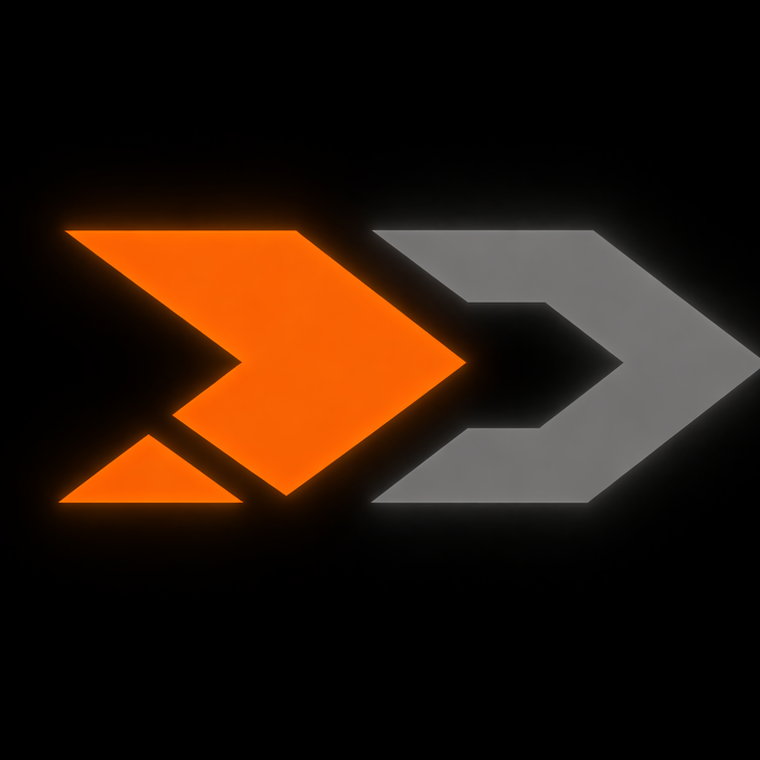
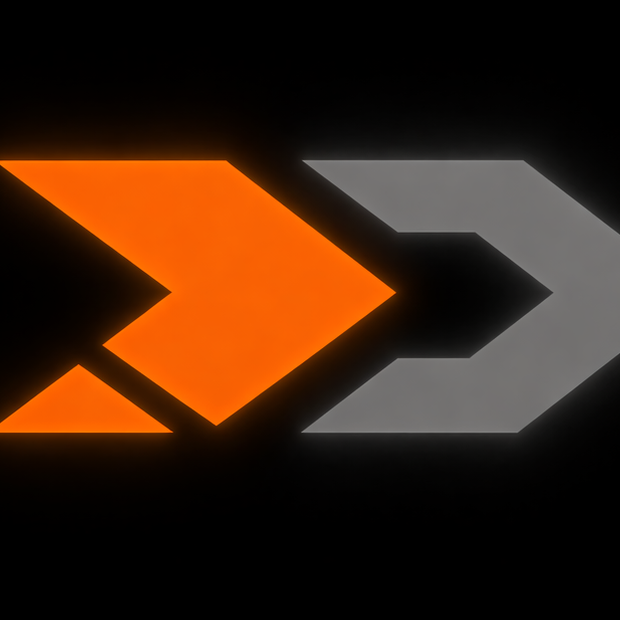
Increase RunDash chevron size again

Changed region(s): [[0.0, 0.2145, 1.0, 0.7355]]

diff --git a/components/Nav.tsx b/components/Nav.tsx
@@ -55,7 +55,7 @@ export default function Nav() {
       {/* ── Desktop top nav ───────────────────────────────────── */}
       <nav className="fixed top-0 left-0 right-0 z-50 hidden sm:block" style={{ background: 'rgba(8,8,8,0.85)', backdropFilter: 'blur(16px) saturate(180%)', WebkitBackdropFilter: 'blur(16px) saturate(180%)', borderBottom: '1px solid rgba(255,255,255,0.05)' }}>
         <div className="max-w-6xl mx-auto px-6 flex items-center justify-between h-14">
-          <RunDashWordmark imageClassName="h-6 w-6" textClassName="text-xl" />
+          <RunDashWordmark imageClassName="h-7 w-7" textClassName="text-xl" />
           <div className="flex items-center gap-1">
             {navItems.map(({ href, label, icon: Icon }) => {
               const active = path === href || (href !== '/' && path.startsWith(href)) || (href === '/groups' && path.startsWith('/group/'))
@@ -108,7 +108,7 @@ export default function Nav() {
 
       {/* ── Mobile top bar: logo + actions ───────────────────── */}
       <div className="mobile-top-bar sm:hidden fixed top-0 left-0 right-0 z-50 h-12 flex items-center justify-between px-4" style={{ background: 'rgba(8,8,8,0.9)', backdropFilter: 'blur(16px)', WebkitBackdropFilter: 'blur(16px)', borderBottom: '1px solid rgba(255,255,255,0.05)' }}>
-        <RunDashWordmark imageClassName="h-6 w-6" textClassName="text-xl" />
+        <RunDashWordmark imageClassName="h-7 w-7" textClassName="text-xl" />
         <div className="flex items-center gap-1.5">
           <button
             onClick={handleSync}

diff --git a/components/RunDashWordmark.tsx b/components/RunDashWordmark.tsx
@@ -6,7 +6,7 @@ type RunDashWordmarkProps = {
 }
 
 export default function RunDashWordmark({
-  imageClassName = 'h-6 w-6',
+  imageClassName = 'h-7 w-7',
   textClassName = 'text-xl',
 }: RunDashWordmarkProps) {
   return (
@@ -15,10 +15,10 @@ export default function RunDashWordmark({
         src="/rundash-icon.png"
         alt=""
         aria-hidden="true"
-        width={760}
-        height={760}
+        width={620}
+        height={620}
         priority
-        className={`mr-1.5 object-contain ${imageClassName}`}
+        className={`mr-2 object-contain ${imageClassName}`}
       />
       <span style={{ color: 'var(--orange)' }}>RUN</span>
       <span className="text-white/50">DASH</span>
